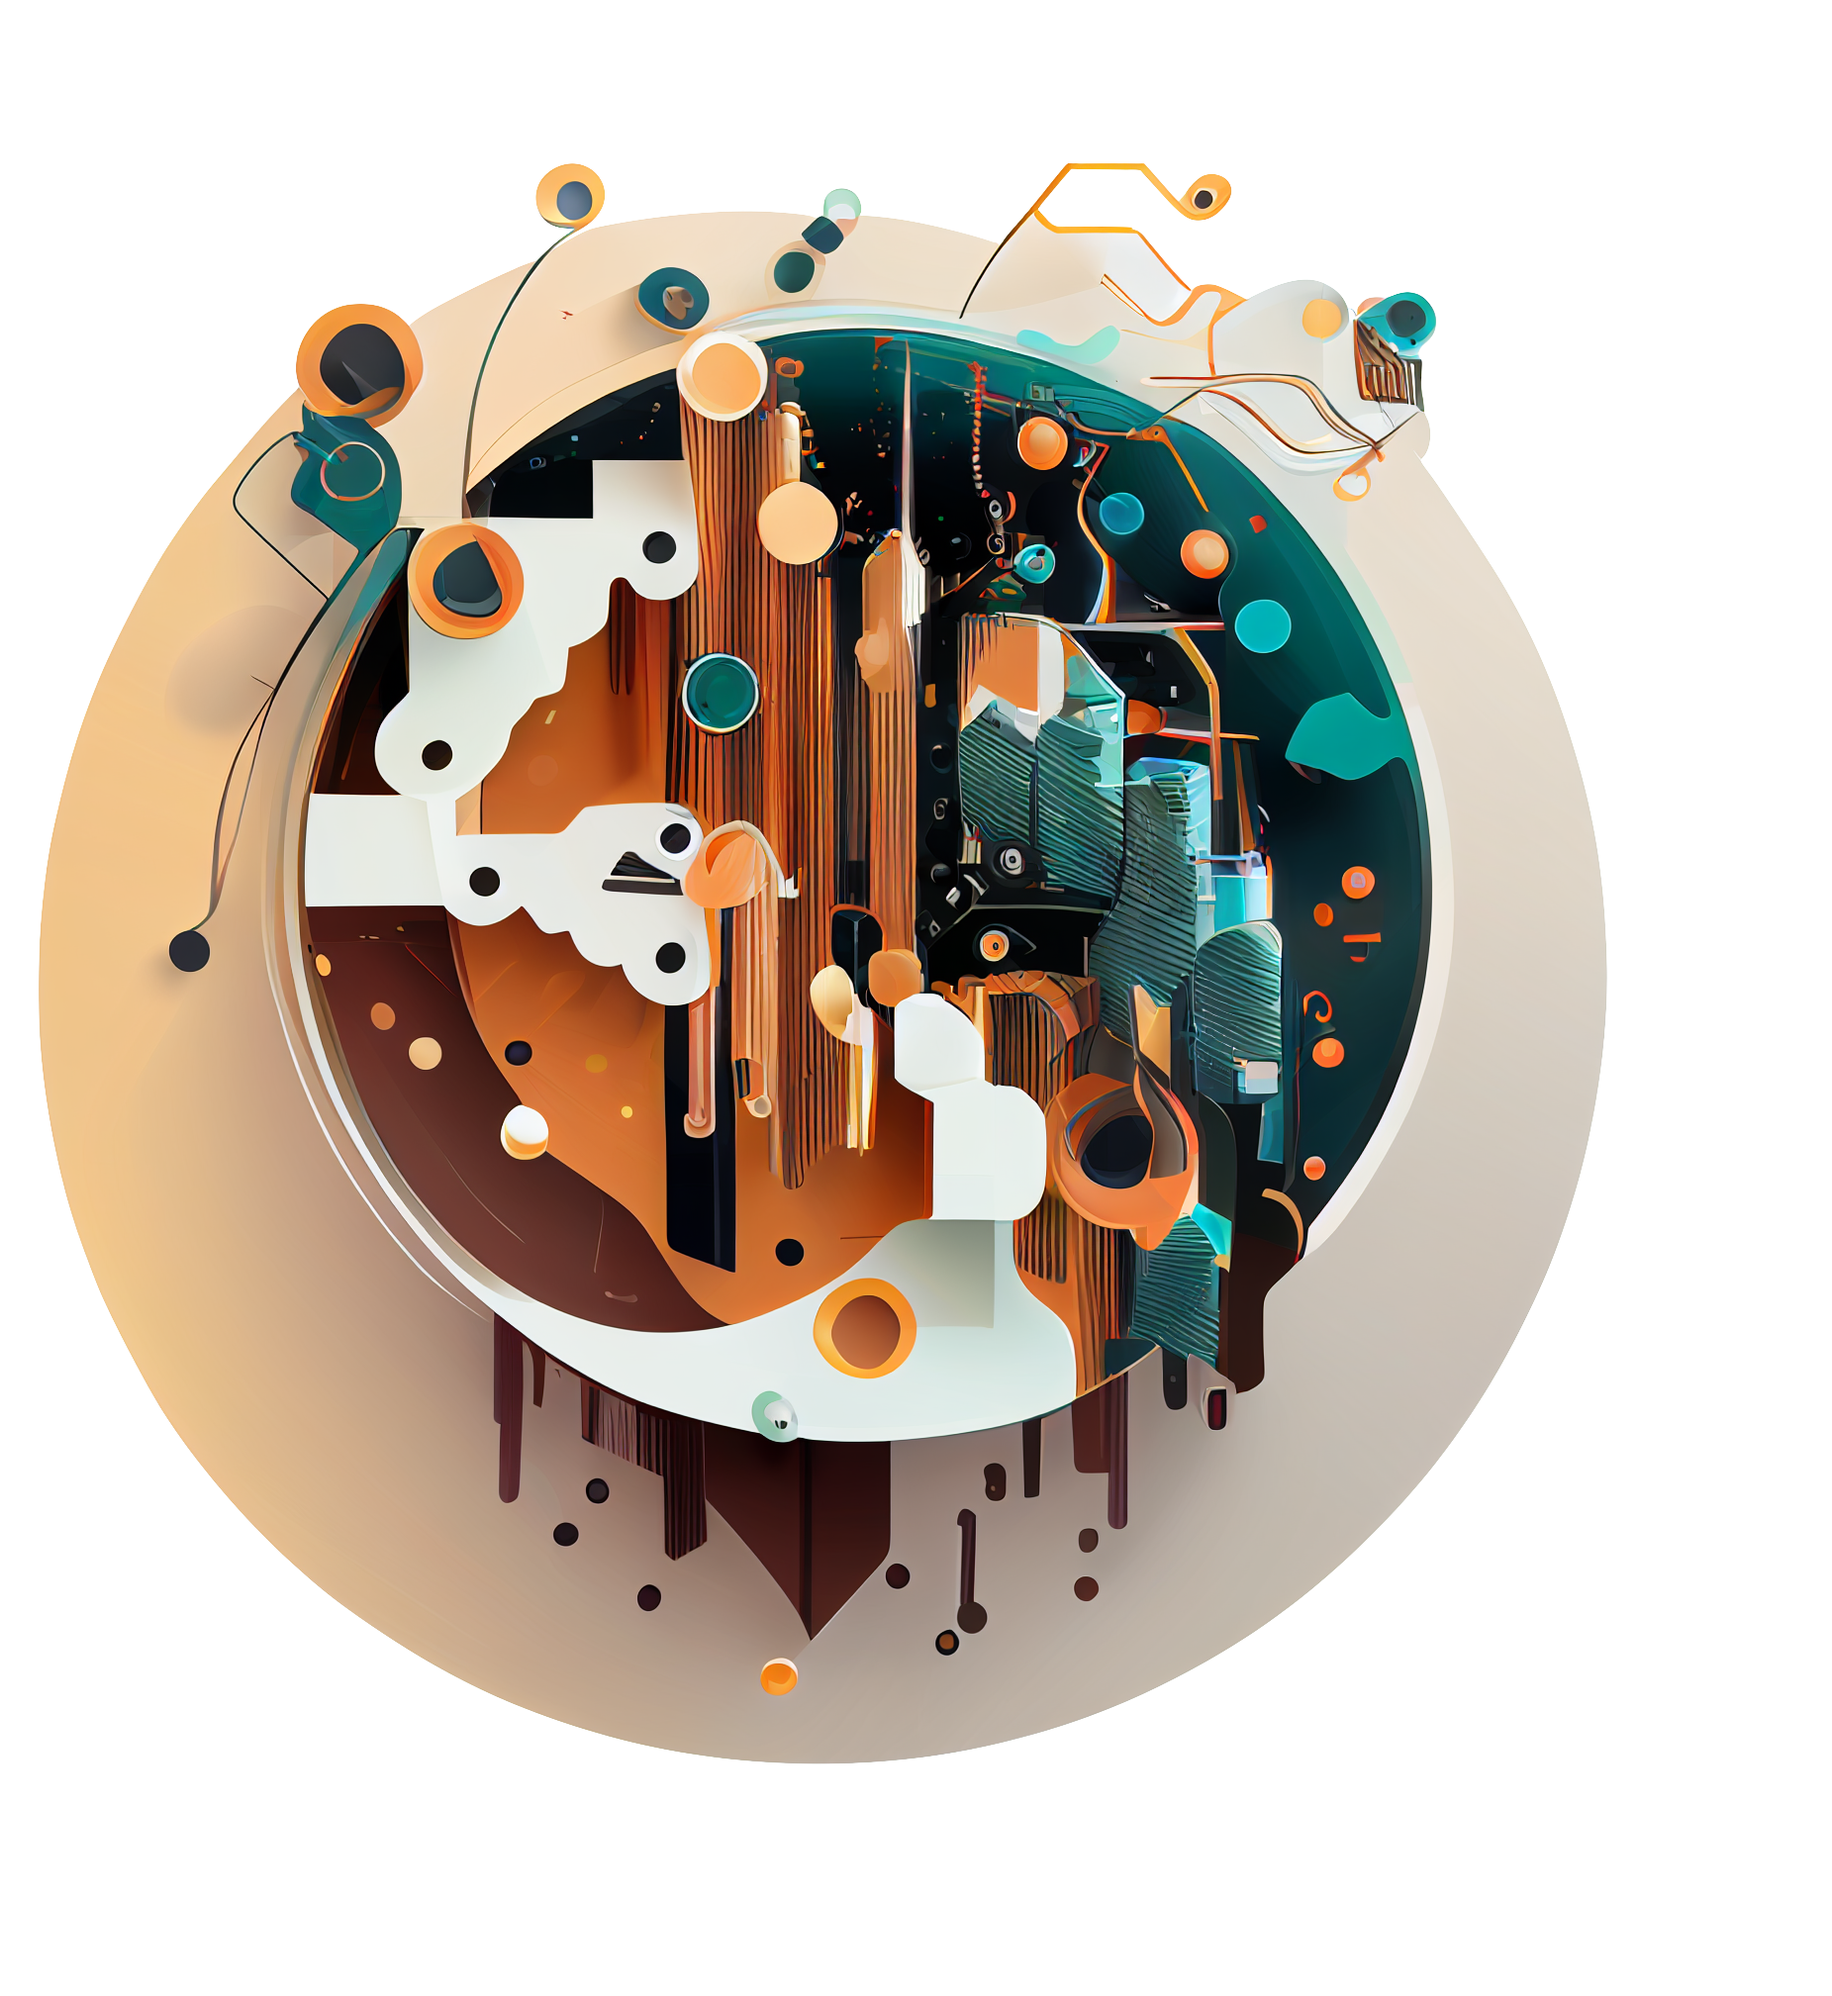
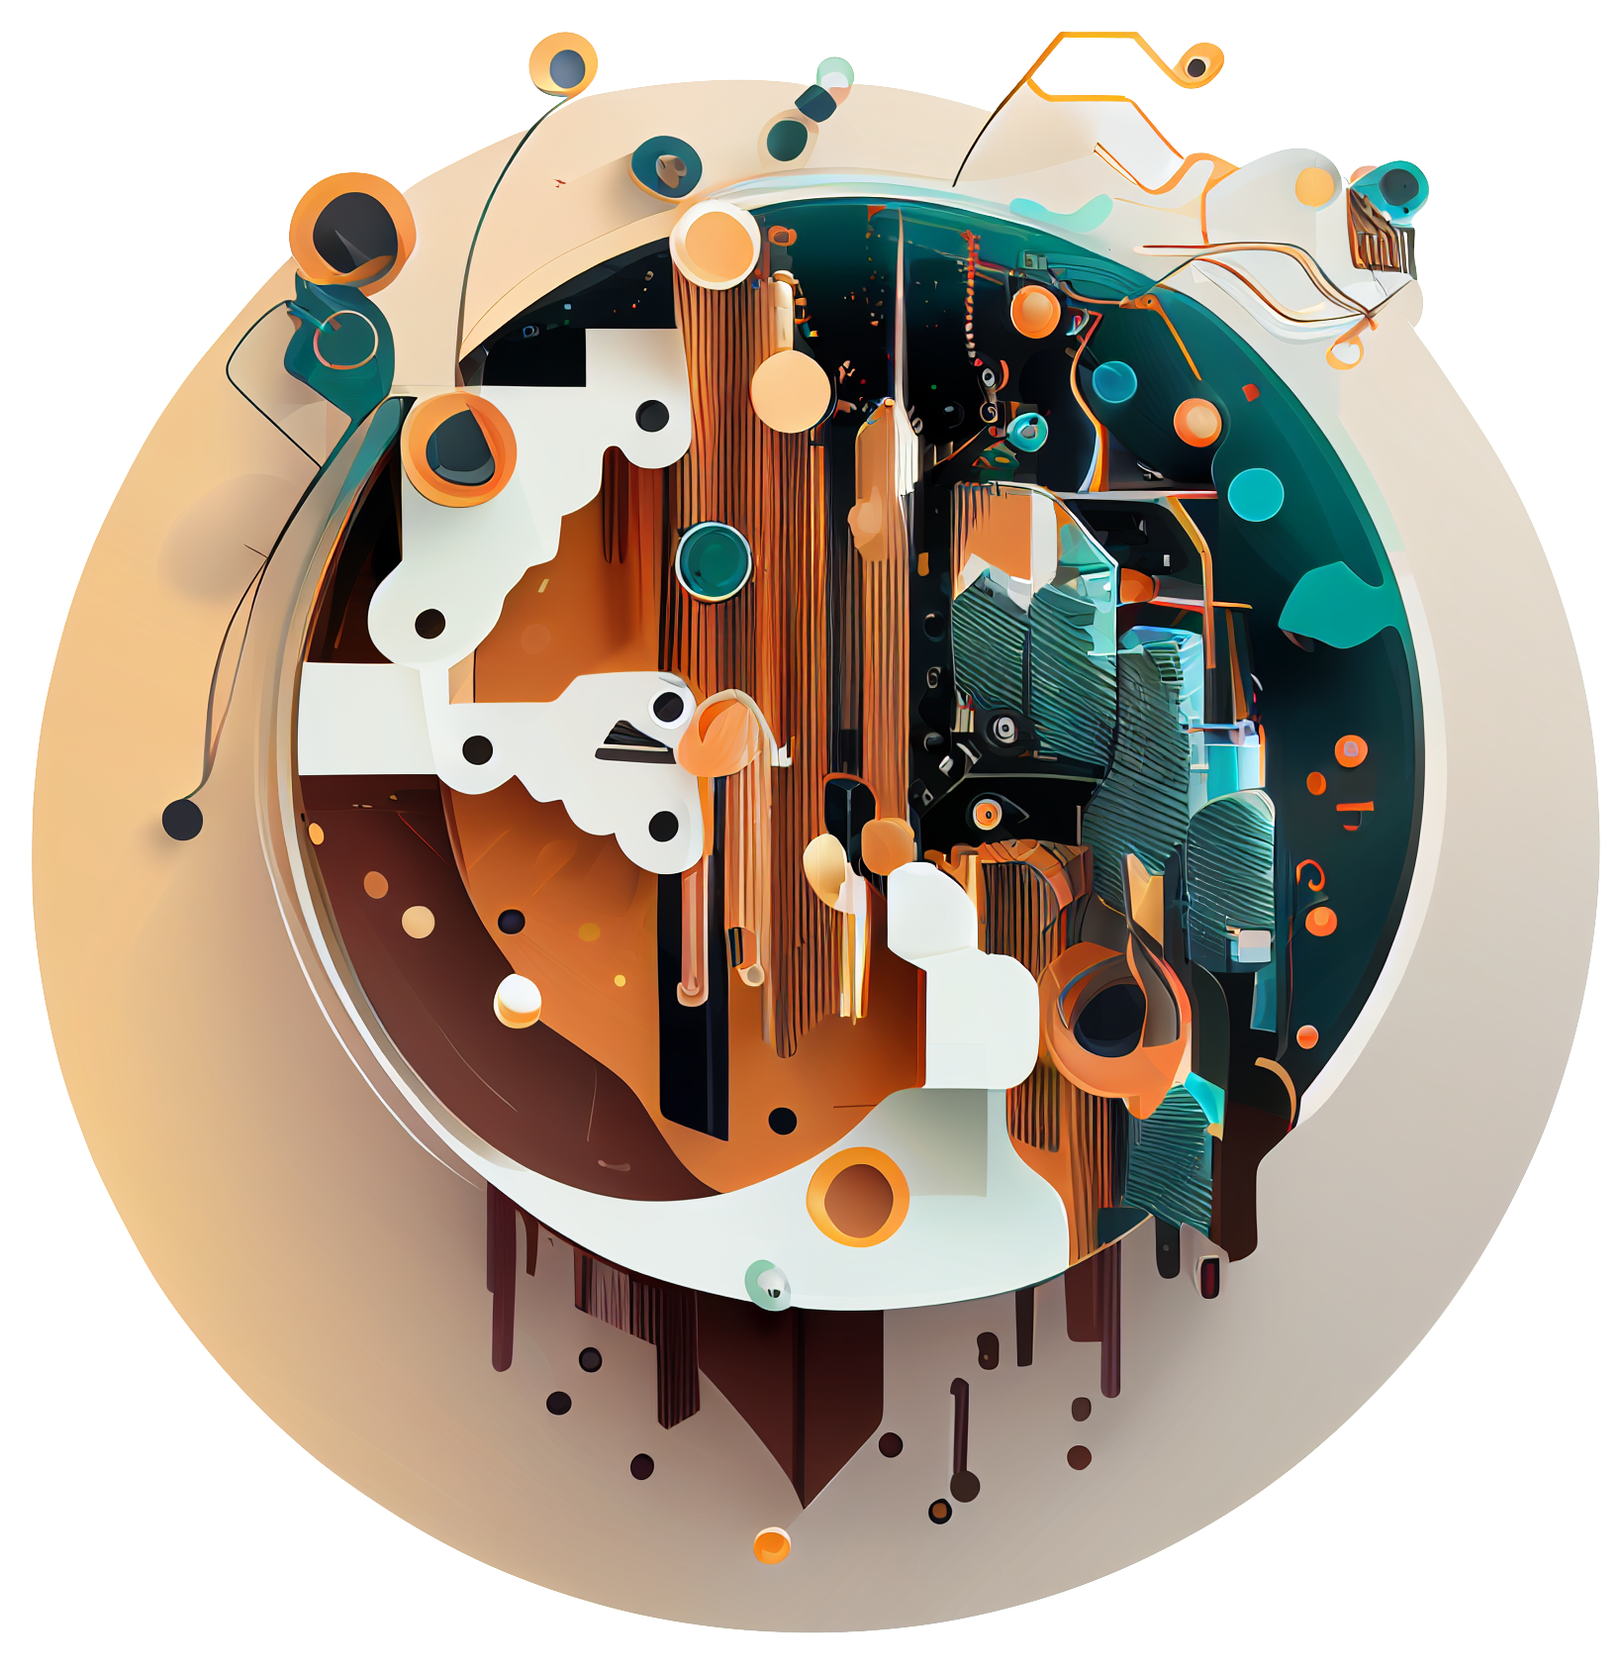
Change styles.

diff --git a/src/components/landing/Intro/index.jsx b/src/components/landing/Intro/index.jsx
@@ -2,7 +2,7 @@ import React from "react";
 import { useStaticQuery, graphql } from "gatsby";
 import AnchorLink from "react-anchor-link-smooth-scroll";
 import Header from "components/theme/Header";
-import Container from "components/common/Container";
+import {StartingContainer} from "components/common/Container";
 import Button from "components/common/Button";
 import { Wrapper, IntroWrapper, Details, Thumbnail } from "./styles";
 import { StaticImage } from "gatsby-plugin-image"
@@ -27,7 +27,7 @@ export default () => {
   return (
     <Wrapper>
       <Header />
-      <IntroWrapper as={Container}>
+      <IntroWrapper as={StartingContainer}>
         <Details>
           <h1>{title}</h1>
           <h4>{description}</h4>
@@ -36,7 +36,8 @@ export default () => {
           </Button>
         </Details>
         <Thumbnail>
-          <StaticImage src="../../../assets/round_abstract_final.png" alt="Circular Abstract AI Illustration" />
+          <StaticImage height="550" src="../../../assets/round_abstract_final.png" alt="Circular Abstract AI Illustration" />
+          {/* <StaticImage  src="../../../assets/round_abstract_final.png" alt="Circular Abstract AI Illustration" /> */}
         </Thumbnail>
       </IntroWrapper>
     </Wrapper>

diff --git a/src/components/common/Container/index.js b/src/components/common/Container/index.js
@@ -1,17 +1,30 @@
-import styled from 'styled-components'
+import styled from "styled-components";
 
 const Container = styled.div`
-	max-width: 1280px;
-	margin: 0 auto;
-	width: 90%;
+  max-width: 1280px;
+  margin: 0 auto;
+  width: 90%;
 
-	@media (min-width: 601px) {
-		width: 90%;
-	}
+  @media (min-width: 601px) {
+    width: 90%;
+  }
 
-	@media (min-width: 993px) {
-		width: 80%;
-	}
-`
+  @media (min-width: 993px) {
+    width: 80%;
+  }
+`;
 
-export default Container
+export const StartingContainer = styled.div`
+  margin-left: 10%;
+  width: 95%;
+
+  @media (min-width: 601px) {
+    width: 90%;
+  }
+
+  @media (min-width: 993px) {
+    width: 90%;
+  }
+`;
+
+export default Container;

diff --git a/src/components/landing/Intro/styles.js b/src/components/landing/Intro/styles.js
@@ -22,7 +22,7 @@ export const IntroWrapper = styled.div`
 `;
 
 export const Details = styled.div`
-  flex: 1;
+  flex: 2;
 
   @media (max-width: 960px) {
     width: 100%;
@@ -52,7 +52,9 @@ export const Details = styled.div`
 `;
 
 export const Thumbnail = styled.div`
-  flex: 1;
+  flex: 3;
+  display: flex;
+  justify-content: center;
 
   @media (max-width: 960px) {
     width: 100%;
